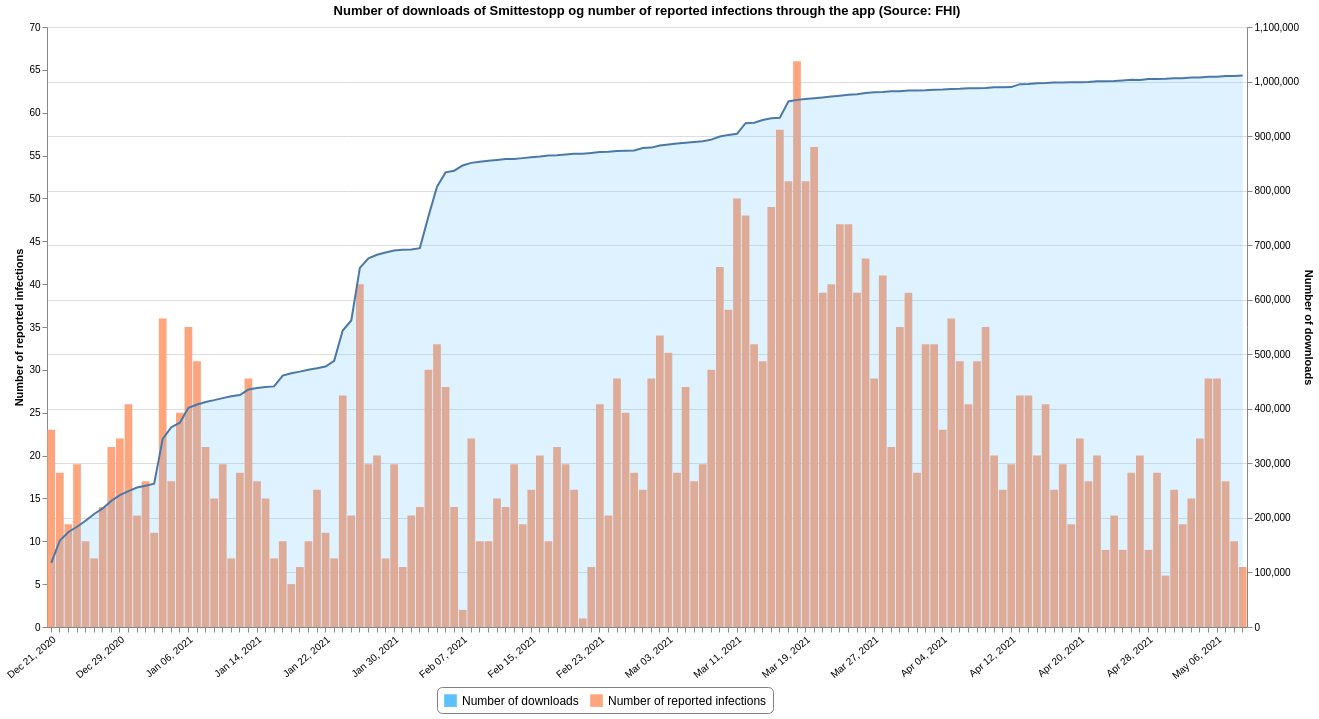
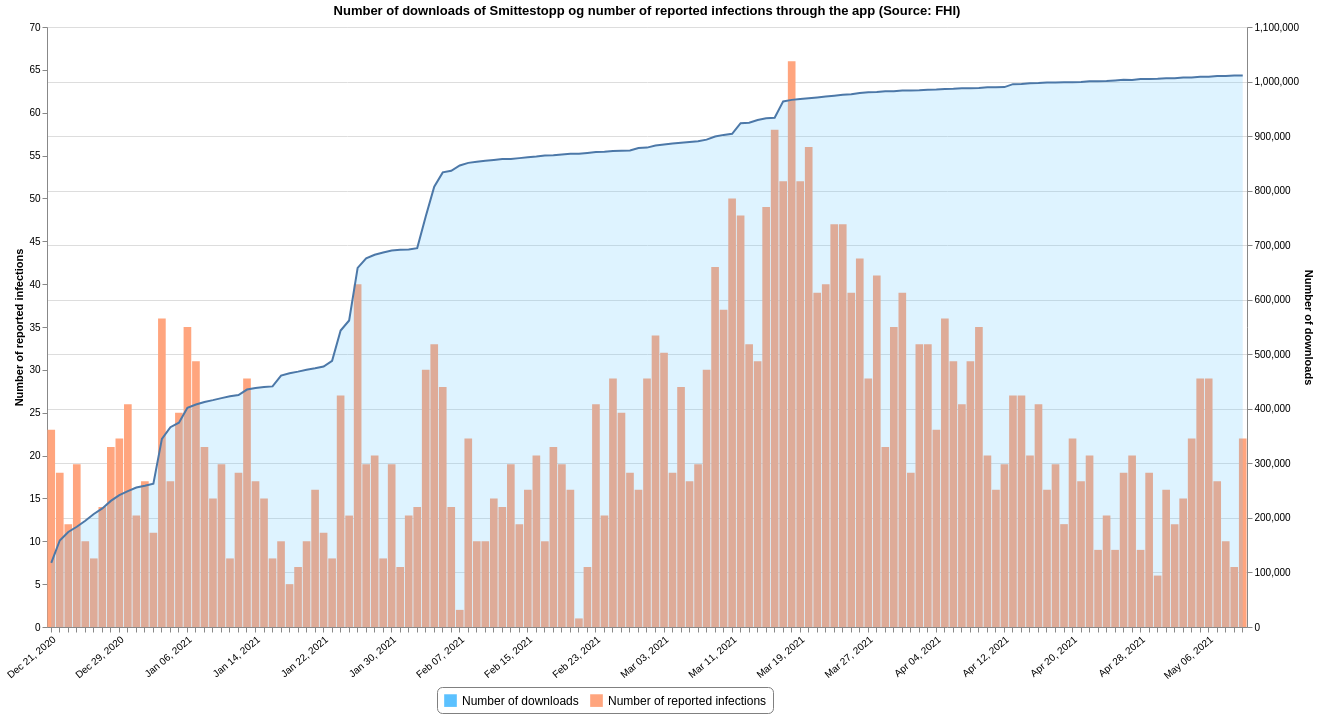
Updated 2021-05-11 10:20

diff --git a/README.md b/README.md
@@ -17,7 +17,7 @@ This repository contains datasets of daily time-series data related to COVID-19 
 |[Tested Lab](#tested_labcsv)|FHI|2021-05-10 13:20:50+02:00|[<center>csv</center>](https://raw.githubusercontent.com/frefrik/c19norge-data/main/data/tested_lab.csv)|[<center>preview</center>](data/tested_lab.csv)|
 |[Transport](#transportcsv)|FHI|2021-05-11 09:30:57+02:00|[<center>csv</center>](https://raw.githubusercontent.com/frefrik/c19norge-data/main/data/transport.csv)|[<center>preview</center>](data/transport.csv)|
 |[Vaccine Doses](#vaccine_dosescsv)|FHI|2021-05-10 13:20:54+02:00|[<center>csv</center>](https://raw.githubusercontent.com/frefrik/c19norge-data/main/data/vaccine_doses.csv)|[<center>preview</center>](data/vaccine_doses.csv)|
-|[Smittestopp](#smittestoppcsv)|FHI|2021-05-10 10:30:51+02:00|[<center>csv</center>](https://raw.githubusercontent.com/frefrik/c19norge-data/main/data/smittestopp.csv)|[<center>preview</center>](data/smittestopp.csv)|
+|[Smittestopp](#smittestoppcsv)|FHI|2021-05-11 10:20:51+02:00|[<center>csv</center>](https://raw.githubusercontent.com/frefrik/c19norge-data/main/data/smittestopp.csv)|[<center>preview</center>](data/smittestopp.csv)|
 <!-- table ends -->
 
 ## Datafiles
